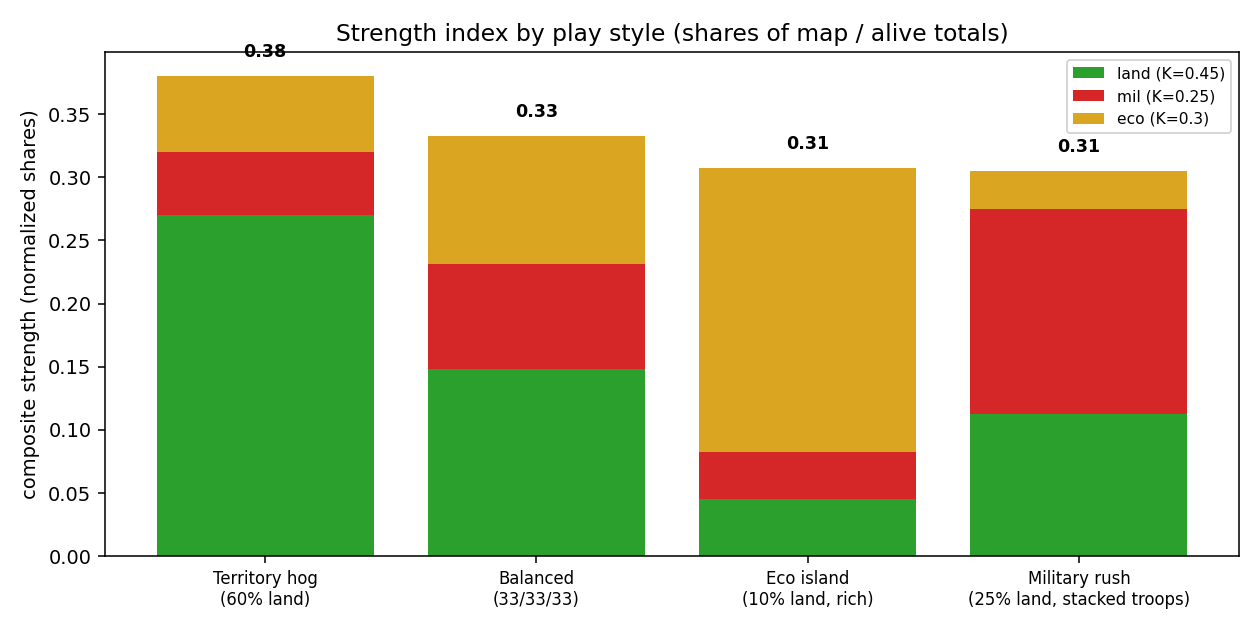
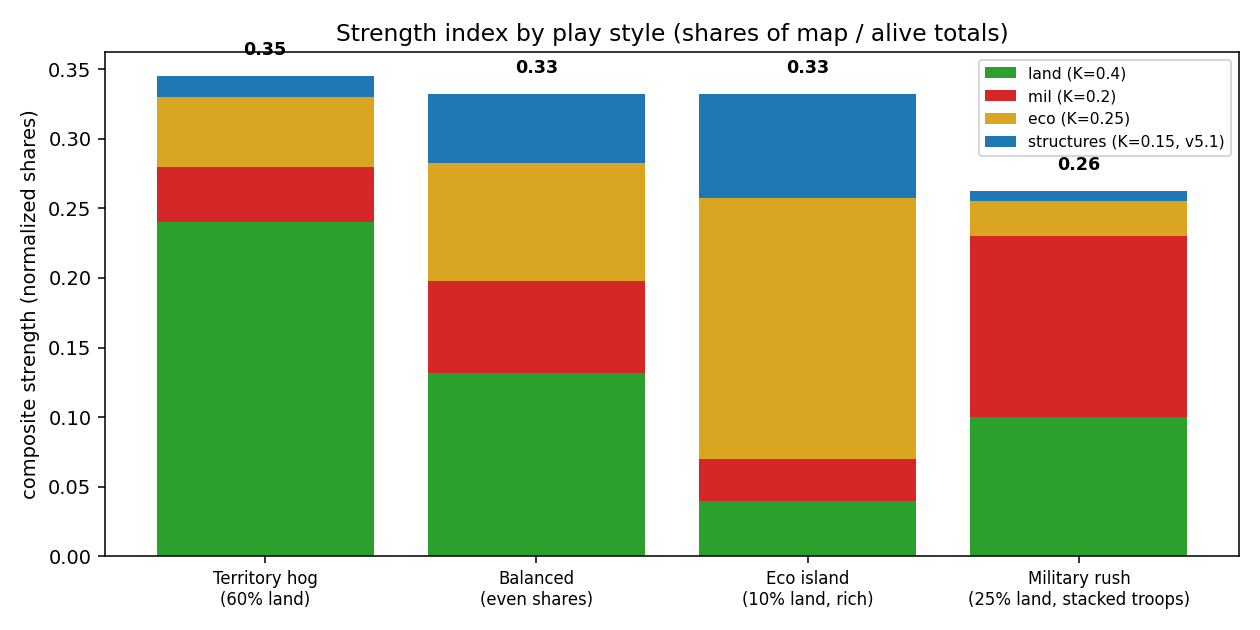
v5.1 reward: structures join the strength blend; fix bc feed decay
Buying a building used to read as a strength loss (gold share drops,
building counts nowhere), so the loss-averse delta punished construction.
K_BUILD=0.15 adds a structure-value share (blend 40/20/25/15) valued by
in-game cost ceilings, so completing and holding structures pays dense
reward.

bc2 decay root cause: encode_grids allocated ~0.5GB of fresh np.stack
buffers per batch, all above glibc's mmap threshold; on fragmented hosts
the mmap fault path degrades over hours. Stack into persistent per-thread
staging buffers instead - pages fault once and stay warm.

diff --git a/docs/devlog.html b/docs/devlog.html
@@ -52,10 +52,12 @@
 </nav>
 
 <div class="now" id="now">
-  <h2 style="font-size:1rem;margin:0 0 .5rem;text-transform:uppercase;letter-spacing:.04em">Now - July 7th, 2026</h2>
-  <p><code>ppo_v5</code> on rl4: BC warm start, entropy floor, sharper placement, loss-averse deltas; stage 2 in ~1h.
-  <code>bc_v4</code> on bc2 ~step 18k (holdout 0.406). <code>bc_seq_v4</code> on bc3 ~step 3k.
-  <code>ppo_v4</code> retired at update 433 (safe-second collapse).</p>
+  <h2 style="font-size:1rem;margin:0 0 .5rem;text-transform:uppercase;letter-spacing:.04em">Now - July 7th, 2026, midday</h2>
+  <p><code>ppo_v5</code> on rl4: stages 0-4 in ~5.5h off the BC warm start, then grinding stage 4
+  (roll-win up to 0.17, score 0.84) with periodic CUDA OOM restarts; relaunching as <b>v5.1</b> with
+  structure-value rewards (<a href="#v51-bc2fix">below</a>).
+  <code>bc_v4</code> on bc2 ~step 22k (holdout best 0.4525); feed decay <b>root-caused and fixed</b>
+  (<a href="#v51-bc2fix">mmap churn</a>). <code>bc_seq_v4</code> on bc3 ~step 5k (holdout 0.318).</p>
   <p class="d" style="margin:.75rem 0 0">375k bot + 420k human snapshots · d8c32 encoder · 5.9M-param policy ·
   11 curriculum stages · encoder border accuracy 71.8% → 89.3% (human).</p>
 </div>
@@ -102,8 +104,8 @@ Numbers: 375k bot + 420k human full-state snapshots · AE border accuracy 71.8% 
 <code>ae_v3.pt</code> until the v3.1 winner is wired into <code>rl/obs.py</code>.</p>
 <table>
   <tr><th>run</th><th>status</th><th>notes</th></tr>
-  <tr><td><code>ppo_v5</code></td><td>active</td>
-    <td>Launched July 7th morning. BC warm start from <code>bc_v4/bc_best.pt</code>, entropy floor (<code>--ent-floor 3.5</code>), PLACE_POW 1.5, loss-averse deltas (gain 5.0 / loss 6.5). Cleared stage 2 in ~1 hour. See <a href="#ppo-v5">PPO v5</a>.</td></tr>
+  <tr><td><code>ppo_v5</code></td><td>active (v5.1)</td>
+    <td>Launched July 7th morning. BC warm start from <code>bc_v4/bc_best.pt</code>, entropy floor (<code>--ent-floor 3.5</code>), PLACE_POW 1.5, loss-averse deltas (gain 5.0 / loss 6.5). Stages 0-4 in ~5.5h; roll-win 0.17 / score 0.85 on stage 4 by update 260. Relaunched midday as <b>v5.1</b>: structure-value share in the strength blend (<a href="#v51-bc2fix">denser rewards</a>), resumed from its own checkpoint. See <a href="#ppo-v5">PPO v5</a>.</td></tr>
   <tr><td><code>ppo_v4</code></td><td><b>retired</b> Jul 7</td>
     <td>The full v4 stack from scratch: d8c32 encoder at 1/8, learned spawns, local owner crop,
     eval loop. Stages 0→3 in ~2h, stage 4 by ~3.6h despite two restarts (OOM at minibatch 128,
@@ -115,7 +117,9 @@ Numbers: 375k bot + 420k human full-state snapshots · AE border accuracy 71.8% 
     normalize. Checkpoint on HF as <code>ppo_v4/policy.pt</code>.</td></tr>
   <tr><td><code>bc_v4</code></td><td>active</td>
     <td>Feedforward BC on the full 291-game cache-bc dataset (265 train / 26 holdout) with spawn
-    supervision. ~step 18k, holdout best 0.406; encode-bound feed (~85-93 ex/s); <code>MALLOC_ARENA_MAX=2</code> trial for decay. Uploads <code>bc.pt</code> +
+    supervision. ~step 22k, holdout best 0.4525; feed decay root-caused (mmap churn on the
+    full-res stacks) and fixed with persistent staging buffers - see
+    <a href="#v51-bc2fix">Jul 7 midday</a>. Uploads <code>bc.pt</code> +
     <code>bc_best.pt</code> to HF.</td></tr>
   <tr><td><code>bc_seq_v4</code></td><td>active</td>
     <td>The temporal transformer experiment (--seq 8), judged properly this time: same cache-bc
@@ -556,6 +560,38 @@ that, and it hasn't reached matched sample counts yet.</p>
     have ofrs return pre-stacked batch arrays so the Python-side memcpy churn disappears.</li>
 </ul>
 
+<h3 id="v51-bc2fix">v5.1 denser rewards + bc2 decay root-caused (Jul 7 midday)</h3>
+<p><b>ppo_v5 status at the time:</b> not stuck so much as slow - roll-win crept 0.00 &rarr; 0.17
+and roll-score 0.29 &rarr; 0.85 on stage 4 by update 260, but the gate needs &gt;0.5 wins, and the
+run was also OOM-crash-looping every ~1h (CUDA OOM in group_norm/conv2d at 96 envs on the
+stage-4 map pool; the supervisor restarts and resumes, so progress survives but momentum
+doesn't). Two changes:</p>
+<ul>
+  <li><b>v5.1: structures join the strength blend.</b> The old blend (land/mil/eco 45/25/30)
+    had a real mis-incentive: buying a building read as a strength <i>loss</i> - your gold
+    share drops and the building counts nowhere, so the loss-averse delta actively punished
+    construction. Now <code>K_BUILD=0.15</code> adds a structure-value share (blend
+    40/20/25/15): each player's finished structures are valued by in-game cost ceilings
+    (City/Port/Factory/Silo 1.0, DefensePost 0.25, SAM 3.0, &times; level) and shared over
+    living players' totals. Completing a building now pays an immediate
+    <code>W_DELTA_GAIN</code> spike, losing one to a nuke costs
+    <code>W_DELTA_LOSS</code>, and holding a built-up economy earns dense reward every
+    step - the reward is denser exactly where the action space was silent.</li>
+  <li><b>bc2 decay: root-caused and fixed fundamentally.</b> The faulthandler dumps caught
+    the prefetch thread in <code>np.stack</code> at <code>rl/obs.py:449</code> - the
+    <code>terrain_static</code> stack, ~460MB of fresh float32 per batch (19MB/sample
+    &times; 24), freed immediately. Allocations that size go through glibc's mmap path, so
+    every batch paid mmap+munmap page faults; on a host with badly fragmented physical
+    memory (65M compaction stalls, 115B failed page migrations in vmstat) the fault path
+    itself degrades - a fresh-allocation memcpy microbenchmark on the degraded box ran
+    ~300MB/s cold vs 1.6GB/s warm. That's why restarts fixed it (fresh page tables, warm
+    buffers) and <code>MALLOC_ARENA_MAX</code> didn't (arenas don't govern mmap'd
+    allocations). Fix: <code>encode_grids</code> now stacks the four big full-res arrays
+    into persistent per-thread staging buffers (<code>np.stack(out=...)</code>), keyed by
+    array name+shape and grown to the largest batch seen - the pages fault once and stay
+    warm, so there is nothing left to decay.</li>
+</ul>
+
 <h3 id="reward-mdp">Reward MDP reference (Jul 7)</h3>
 <p>The dense + terminal reward is fully specified in <code>rl/curriculum.py</code> and applied in
 <code>rl/vec.py</code>. These panels are generated from the live constants by
@@ -576,7 +612,7 @@ that, and it hasn't reached matched sample counts yet.</p>
   <tr><td><code>W_DEATH</code></td><td>1</td><td>1</td><td>flat penalty when eliminated</td></tr>
   <tr><td><code>W_WASTE</code></td><td>0.01</td><td>0.01</td><td>per silently-discarded intent (boat/build spam)</td></tr>
   <tr><td>timeweight</td><td>0.5&rarr;1.0</td><td>same</td><td>ramps over first 8000 engine ticks</td></tr>
-  <tr><td>strength blend</td><td>45/25/30</td><td>same</td><td>land / military / economy shares of alive totals</td></tr>
+  <tr><td>strength blend</td><td>45/25/30</td><td>40/20/25/15 (v5.1)</td><td>land / military / economy / structure-value shares of alive totals</td></tr>
 </table>
 <ul>
   <li><b>Terminal panel:</b> v5's sharper <code>PLACE_POW</code> is the main anti-safe-second lever -

diff --git a/rl/curriculum.py b/rl/curriculum.py
@@ -4,7 +4,8 @@ Reward design (v2):
 - Dense signal is a composite STRENGTH index, not raw land: territory
   alone mis-scores legit strategies (tiny-island economies that stack
   gold). Strength blends land share (of the whole map), military share,
-  and economic share (of everything held by living players). Each decision
+  economic share, and (v5.1) structure-value share (of everything held by
+  living players). Each decision
   step earns w_str * strength * timeweight, where timeweight ramps
   0.5 -> 1.0 over the first 8000 ticks: being strong late is worth double
   being strong early, and unlike pure deltas (v1) this does not net to
@@ -57,9 +58,26 @@ PLACE_POW = 1.5
 
 # Strength blend: land still matters most (the win condition is territorial)
 # but military and economy make island/eco strategies score honestly.
-K_LAND = 0.45
-K_MIL = 0.25
-K_ECO = 0.30
+# v5.1 adds structures: without them, buying a building read as a strength
+# LOSS (gold share drops, the building counts nowhere), so the loss-averse
+# delta punished construction. Now structure value is its own component and
+# completing a building pays an immediate delta.
+K_LAND = 0.40
+K_MIL = 0.20
+K_ECO = 0.25
+K_BUILD = 0.15
+
+# Structure values ~ in-game gold cost ceilings / 1M (Config.ts unitInfo);
+# level multiplies (upgraded cities/silos are worth their reinvestment).
+# Under-construction units count once finished.
+STRUCT_VALUE = {
+    "City": 1.0,
+    "Port": 1.0,
+    "Factory": 1.0,
+    "Missile Silo": 1.0,
+    "Defense Post": 0.25,
+    "SAM Launcher": 3.0,
+}
 
 WINDOW = 40
 WIN_AT = 0.5  # must win more often than not to advance
@@ -126,16 +144,24 @@ def timeweight(tick: int) -> float:
 
 def strengths(entities: dict, land_total: int) -> dict[int, float]:
     """Composite strength per living player: blended land / military /
-    economic position. Land share is absolute (fraction of the map);
-    troops and gold are shares of what living players hold."""
+    economic / structural position. Land share is absolute (fraction of the
+    map); troops, gold, and structure value are shares of what living
+    players hold."""
     alive = [p for p in entities["players"] if p["alive"]]
     tot_troops = sum(p["troops"] for p in alive) + 1e-9
     tot_gold = sum(float(p["gold"]) for p in alive) + 1e-9
+    sv: dict[int, float] = {}
+    for u in entities.get("units", ()):
+        v = STRUCT_VALUE.get(u["type"])
+        if v is not None and not u["constructing"]:
+            sv[u["owner"]] = sv.get(u["owner"], 0.0) + v * max(1, u.get("level", 1))
+    tot_sv = sum(sv.get(p["id"], 0.0) for p in alive) + 1e-9
     return {
         p["id"]: (
             K_LAND * (p["tiles"] / land_total)
             + K_MIL * (p["troops"] / tot_troops)
             + K_ECO * (float(p["gold"]) / tot_gold)
+            + K_BUILD * (sv.get(p["id"], 0.0) / tot_sv)
         )
         for p in alive
     }

diff --git a/rl/obs.py b/rl/obs.py
@@ -23,6 +23,7 @@ ships once per episode; dynamic fallout ships every step as packed bits
 saw frozen fallout after an episode's first step).
 """
 
+import threading
 from pathlib import Path
 
 import numpy as np
@@ -416,6 +417,32 @@ def _local_crops(
     return out
 
 
+# Reused per-thread staging buffers for the big full-res stacks below.
+# Fresh np.stack allocations here ran ~0.5GB/batch (terrain_static alone is
+# 19MB/sample), all above glibc's mmap threshold: every batch paid
+# mmap+munmap page faults, and on hosts with fragmented physical memory
+# (bc2: compact_stall in the millions) that fault path degraded 3-4x over
+# hours - the "bc decay". A persistent buffer faults once and stays warm.
+# Keyed by name + per-sample shape, grown to the largest batch seen;
+# thread-local because PPO encodes from two acting threads concurrently.
+_staging = threading.local()
+
+
+def _staged_stack(name: str, arrays: list[np.ndarray]) -> np.ndarray:
+    bufs = getattr(_staging, "bufs", None)
+    if bufs is None:
+        bufs = _staging.bufs = {}
+    n = len(arrays)
+    key = (name, arrays[0].shape, arrays[0].dtype.str)
+    buf = bufs.get(key)
+    if buf is None or buf.shape[0] < n:
+        buf = np.empty((n, *arrays[0].shape), arrays[0].dtype)
+        bufs[key] = buf
+    out = buf[:n]
+    np.stack(arrays, out=out)
+    return out
+
+
 @torch.no_grad()
 def encode_grids(
     ae: SpatialAE, raws: list[dict], device: str, fp16: bool = False
@@ -443,16 +470,16 @@ def encode_grids(
     local_by_idx: dict[int, np.ndarray] = {}
     for idxs in groups.values():
         owners = torch.from_numpy(
-            np.stack([raws[i]["owners"] for i in idxs])
+            _staged_stack("owners", [raws[i]["owners"] for i in idxs])
         ).to(device)
         terr = torch.from_numpy(
-            np.stack([raws[i]["terrain_static"] for i in idxs])
+            _staged_stack("terr", [raws[i]["terrain_static"] for i in idxs])
         ).to(device)
         packed = torch.from_numpy(
-            np.stack([raws[i]["fallout_packed"] for i in idxs])
+            _staged_stack("packed", [raws[i]["fallout_packed"] for i in idxs])
         ).to(device)
         static = torch.from_numpy(
-            np.stack([raws[i]["static"] for i in idxs])
+            _staged_stack("static", [raws[i]["static"] for i in idxs])
         ).to(device)
         clut = torch.from_numpy(
             np.stack([raws[i]["clut"] for i in idxs])

diff --git a/scripts/make_reward_graphs.py b/scripts/make_reward_graphs.py
@@ -22,6 +22,7 @@ import matplotlib.pyplot as plt
 import numpy as np
 
 from rl.curriculum import (
+    K_BUILD,
     K_ECO,
     K_LAND,
     K_MIL,
@@ -269,21 +270,25 @@ def fig_scenarios(out: Path) -> None:
 
 
 def fig_strength_blend(out: Path) -> None:
-    """How land / military / economy shares blend into strength."""
+    """How land / military / economy / structure shares blend into strength."""
     fig, ax = plt.subplots(figsize=(9, 4.5))
 
+    # (land, mil, eco, build) shares per archetype.
     archetypes = {
-        "Territory hog\n(60% land)": (0.60, 0.20, 0.20),
-        "Balanced\n(33/33/33)": (0.33, 0.33, 0.34),
-        "Eco island\n(10% land, rich)": (0.10, 0.15, 0.75),
-        "Military rush\n(25% land, stacked troops)": (0.25, 0.65, 0.10),
+        "Territory hog\n(60% land)": (0.60, 0.20, 0.20, 0.10),
+        "Balanced\n(even shares)": (0.33, 0.33, 0.34, 0.33),
+        "Eco island\n(10% land, rich)": (0.10, 0.15, 0.75, 0.50),
+        "Military rush\n(25% land, stacked troops)": (0.25, 0.65, 0.10, 0.05),
     }
     names = list(archetypes)
     vals = [
-        K_LAND * l + K_MIL * m + K_ECO * e
-        for l, m, e in archetypes.values()
+        K_LAND * l + K_MIL * m + K_ECO * e + K_BUILD * b
+        for l, m, e, b in archetypes.values()
     ]
-    parts = np.array([[K_LAND * l, K_MIL * m, K_ECO * e] for l, m, e in archetypes.values()])
+    parts = np.array([
+        [K_LAND * l, K_MIL * m, K_ECO * e, K_BUILD * b]
+        for l, m, e, b in archetypes.values()
+    ])
     x = np.arange(len(names))
     ax.bar(x, parts[:, 0], label=f"land (K={K_LAND})", color="tab:green")
     ax.bar(x, parts[:, 1], bottom=parts[:, 0], label=f"mil (K={K_MIL})", color="tab:red")
@@ -293,6 +298,13 @@ def fig_strength_blend(out: Path) -> None:
         bottom=parts[:, 0] + parts[:, 1],
         label=f"eco (K={K_ECO})",
         color="goldenrod",
+    )
+    ax.bar(
+        x,
+        parts[:, 3],
+        bottom=parts[:, 0] + parts[:, 1] + parts[:, 2],
+        label=f"structures (K={K_BUILD}, v5.1)",
+        color="tab:blue",
     )
     for i, v in enumerate(vals):
         ax.text(i, v + 0.015, f"{v:.2f}", ha="center", fontsize=9, fontweight="bold")